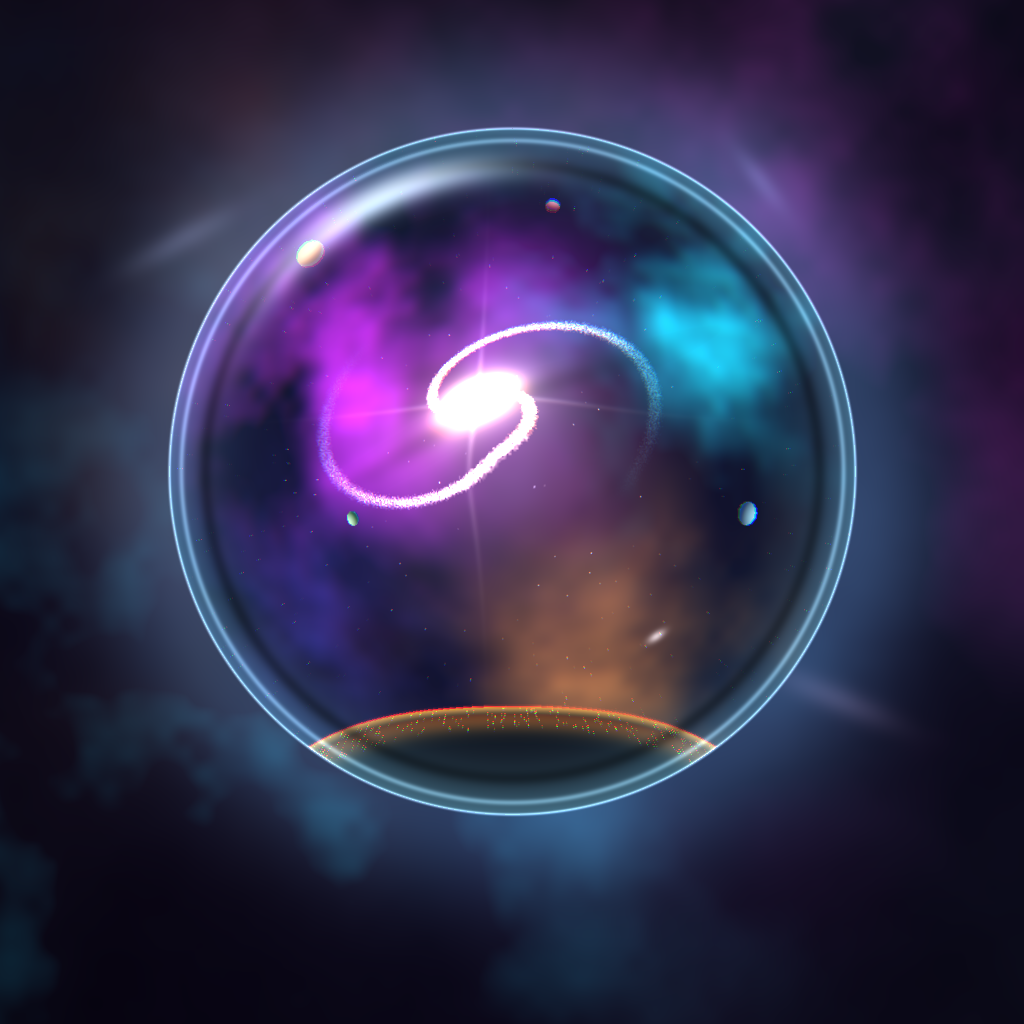
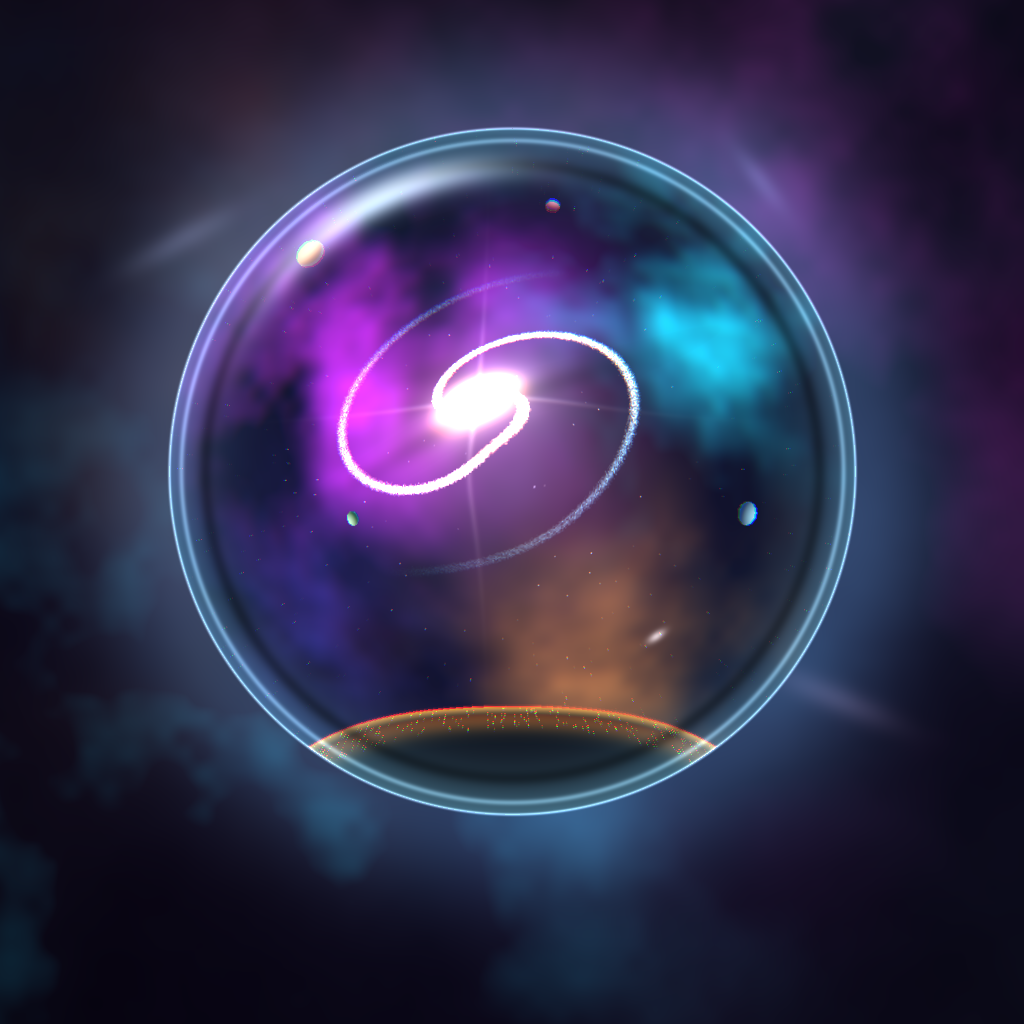
Refine galaxy spiral, arm knots, and quasar balance; refresh docs
- Tighter spiral wind (5.45 rad) with narrower arm spread and brighter
  ridge stroke for a clearer grand-design two-arm read at thumbnail size
- Add HII star-forming knots (magenta/cyan) sprinkled along both arms
- Rebalance quasar flare so the nucleus stays bright but not clipped
- Rewrite main.ts/README.md/.gitignore (same behavior and required
  content, refreshed wording; gitignore keeps agent-local names)

diff --git a/main.ts b/main.ts
@@ -1,7 +1,7 @@
 // Entry point for "THE UNIVERSE INSIDE A DROP".
-// The finished artwork is committed to this repository as entry.png, so the
-// bytes a grader copies into the output directory are exactly the reviewed
-// artwork — no resampling, no re-encoding, no network. Node stdlib only.
+// entry.png is committed to this repository as the finished, reviewed artwork,
+// so whatever bytes land in the output directory are exactly those reviewed
+// bytes — no resampling, no re-encoding, no network. Node stdlib only.
 import { copyFileSync, mkdirSync } from 'node:fs';
 import { dirname, join } from 'node:path';
 import { fileURLToPath } from 'node:url';
@@ -10,5 +10,6 @@ const here = dirname(fileURLToPath(import.meta.url));
 const source = join(here, 'entry.png');
 const outputDir = process.env.MAKEFUN_OUTPUT_DIR ?? '/output';
 mkdirSync(outputDir, { recursive: true });
-copyFileSync(source, join(outputDir, 'entry.png'));
-console.log('copied', source, '->', join(outputDir, 'entry.png'));
+const destination = join(outputDir, 'entry.png');
+copyFileSync(source, destination);
+console.log('copied', source, '->', destination);

diff --git a/README.md b/README.md
@@ -4,17 +4,18 @@
 [![rank](https://make.fun/badge/ai-excited-01/salahhamza332/universe-in-a-drop/rank.svg)](https://make.fun/bounty/ai-excited-01/leaderboard?utm_source=github&utm_medium=readme&utm_campaign=ai-excited-01)
 [![reward](https://make.fun/badge/ai-excited-01/salahhamza332/universe-in-a-drop/reward.svg)](https://make.fun/bounty/ai-excited-01?utm_source=github&utm_medium=readme&utm_campaign=ai-excited-01)
 
-**THE UNIVERSE INSIDE A DROP** — one crystal droplet drifting through deep
-space, with an entire cosmos caught behind its curved glass: a two-armed
+**THE UNIVERSE INSIDE A DROP** — a single crystal droplet adrift in deep
+space, with an entire cosmos sealed behind its curved glass: a two-armed
 grand-design spiral galaxy blazing around a quasar-bright nucleus, magenta
 and teal star-forming nebulae, four tiny shaded planets, and a crescent
-world whose amber city glitters along the limb under thin cyan beacon
-beams. Maximum scale, one readable silhouette. No image assets and zero
-network access — every pixel is produced by a hand-rolled, deterministic
-Node.js renderer: fbm value-noise nebulae, tens of thousands of additive
-galaxy particles plus a smooth ridge stroke tracing the logarithmic spiral
-(gold at the core, fading to cyan-white at the tips), spherical-lens
-refraction with chromatic aberration, a fresnel rim, and painted speculars.
+world whose amber city glitters along the limb beneath thin cyan beacon
+beams. Maximum scale in one readable silhouette. No image assets, no
+network — every pixel comes from a hand-rolled, deterministic Node.js
+renderer: fbm value-noise nebulae, fifty-plus thousand additive galaxy
+particles traced along a logarithmic spiral ridge (gold at the core,
+fading to cyan-white at the tips), HII knots sprinkled along the arms,
+spherical-lens refraction with chromatic aberration, a fresnel rim, and
+painted speculars.
 
 ## Run it
 
